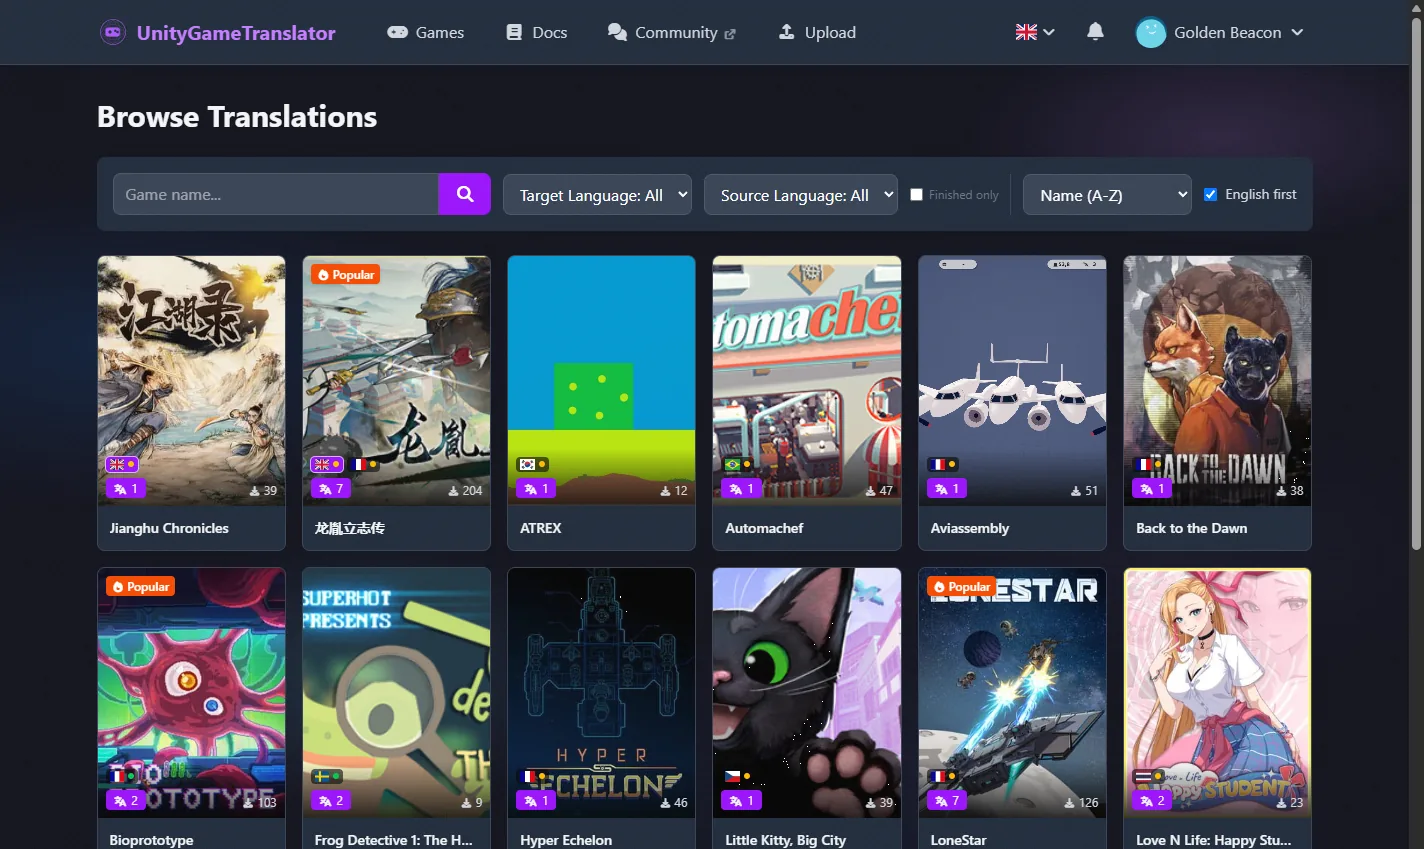
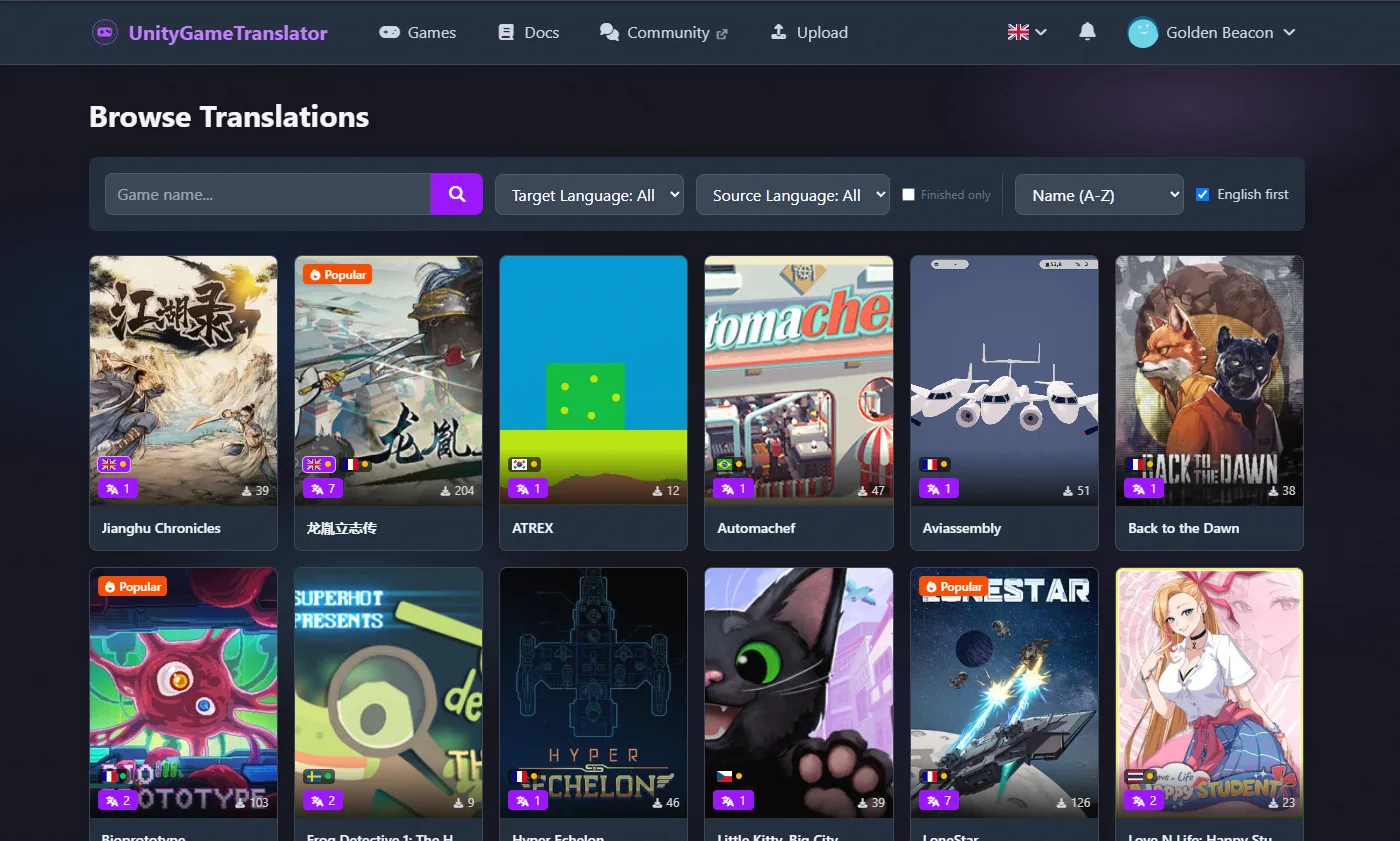
Redo the screenshots: clean captures, placed like the existing ones
Four of the five carried Chrome's "started debugging this browser" bar, frozen
into the image by a capture offset that was correct the day before. A check meant
to catch it looked for a LIGHT banner; in dark mode it is dark, and it passed.
The captures now trim what the browser adds - that bar and the orange frame Chrome
draws around a driven page - and refuse anything that survives the trim.

They were also placed after each section's panel rather than inside it, so they
floated on the page background at full width, with no frame and nothing saying
why they were there. They now follow the pattern the other figures already used:
inside the panel, doc-img for the border and the zoom, and a caption.

diff --git a/resources/views/docs/index.blade.php b/resources/views/docs/index.blade.php
@@ -255,6 +255,18 @@
 
             <div class="bg-gray-800 rounded-lg p-6 border border-gray-700">
                 <p class="text-gray-300 mb-6">{{ __('docs.whatis.pitch') }}</p>
+                <figure class="mb-6 w-full flex flex-col items-center justify-center">
+                    <picture>
+                        <source srcset="{{ asset('images/screenshots/WebBrowse.webp') }}" type="image/webp">
+                        <img src="{{ asset('images/screenshots/WebBrowse.png') }}"
+                             alt="{{ __('docs.shot.browse_alt') }}"
+                             class="doc-img doc-img-web block mx-auto"
+                             width="1400" height="841"
+                             loading="lazy"
+                             data-zoomable>
+                    </picture>
+                    <figcaption class="text-sm text-gray-400 mt-2 text-center">{{ __('docs.shot.browse_caption') }}</figcaption>
+                </figure>
 
                 <div class="grid md:grid-cols-2 gap-4 mb-6">
                     <div class="bg-gray-700 rounded-lg p-4">
@@ -314,17 +326,6 @@
                 </div>
             </div>
         
-                <figure class="mb-6 w-full flex flex-col items-center justify-center">
-                    <picture>
-                        <source srcset="{{ asset('images/screenshots/WebBrowse.webp') }}" type="image/webp">
-                        <img src="{{ asset('images/screenshots/WebBrowse.png') }}"
-                             alt="{{ __('docs.shot.browse_alt') }}"
-                             class="doc-img doc-img-web block mx-auto"
-                             width="1424" height="849"
-                             loading="lazy"
-                             data-zoomable>
-                    </picture>
-                </figure>
             </section>
 
         <!-- Quick Start -->
@@ -335,6 +336,18 @@
 
             <div class="bg-gray-800 rounded-lg p-6 border border-gray-700">
                 <p class="text-gray-300 mb-6">{{ __('docs.quick_start.intro') }}</p>
+                <figure class="mb-6 w-full flex flex-col items-center justify-center">
+                    <picture>
+                        <source srcset="{{ asset('images/screenshots/WebGamePage.webp') }}" type="image/webp">
+                        <img src="{{ asset('images/screenshots/WebGamePage.png') }}"
+                             alt="{{ __('docs.shot.game_alt') }}"
+                             class="doc-img doc-img-web block mx-auto"
+                             width="1390" height="840"
+                             loading="lazy"
+                             data-zoomable>
+                    </picture>
+                    <figcaption class="text-sm text-gray-400 mt-2 text-center">{{ __('docs.shot.game_caption') }}</figcaption>
+                </figure>
 
                 {{-- Each step goes where it is explained.
 
@@ -398,17 +411,6 @@
                 </div>
             </div>
         
-                <figure class="mb-6 w-full flex flex-col items-center justify-center">
-                    <picture>
-                        <source srcset="{{ asset('images/screenshots/WebGamePage.webp') }}" type="image/webp">
-                        <img src="{{ asset('images/screenshots/WebGamePage.png') }}"
-                             alt="{{ __('docs.shot.game_alt') }}"
-                             class="doc-img doc-img-web block mx-auto"
-                             width="1424" height="849"
-                             loading="lazy"
-                             data-zoomable>
-                    </picture>
-                </figure>
             </section>
 
         <!-- Installation -->
@@ -828,6 +830,18 @@
                     <li>{{ __('docs.collaboration.workflow2') }}</li>
                     <li>{{ __('docs.collaboration.workflow3') }}</li>
                     <li>{{ __('docs.collaboration.workflow4') }}</li>
+                <figure class="mb-6 w-full flex flex-col items-center justify-center">
+                    <picture>
+                        <source srcset="{{ asset('images/screenshots/WebMerge.webp') }}" type="image/webp">
+                        <img src="{{ asset('images/screenshots/WebMerge.png') }}"
+                             alt="{{ __('docs.shot.merge_alt') }}"
+                             class="doc-img doc-img-web block mx-auto"
+                             width="1389" height="841"
+                             loading="lazy"
+                             data-zoomable>
+                    </picture>
+                    <figcaption class="text-sm text-gray-400 mt-2 text-center">{{ __('docs.shot.merge_caption') }}</figcaption>
+                </figure>
                 </ol>
             </div>
 
@@ -837,6 +851,18 @@
                     <i class="fas fa-upload text-green-400 mr-2"></i>{{ __('docs.collaboration.upload_title') }}
                 </h3>
                 <p class="text-gray-300 mb-4">{{ __('docs.collaboration.upload_intro') }}</p>
+                <figure class="mb-6 w-full flex flex-col items-center justify-center">
+                    <picture>
+                        <source srcset="{{ asset('images/screenshots/WebUpload.webp') }}" type="image/webp">
+                        <img src="{{ asset('images/screenshots/WebUpload.png') }}"
+                             alt="{{ __('docs.shot.upload_alt') }}"
+                             class="doc-img doc-img-web block mx-auto"
+                             width="1400" height="841"
+                             loading="lazy"
+                             data-zoomable>
+                    </picture>
+                    <figcaption class="text-sm text-gray-400 mt-2 text-center">{{ __('docs.shot.upload_caption') }}</figcaption>
+                </figure>
 
                 <div class="grid md:grid-cols-2 gap-4">
                     <div>
@@ -881,29 +907,7 @@
                 <p class="text-gray-300">{{ __('docs.collaboration.merge_rules') }}</p>
             </div>
         
-                <figure class="mb-6 w-full flex flex-col items-center justify-center">
-                    <picture>
-                        <source srcset="{{ asset('images/screenshots/WebUpload.webp') }}" type="image/webp">
-                        <img src="{{ asset('images/screenshots/WebUpload.png') }}"
-                             alt="{{ __('docs.shot.upload_alt') }}"
-                             class="doc-img doc-img-web block mx-auto"
-                             width="1424" height="849"
-                             loading="lazy"
-                             data-zoomable>
-                    </picture>
-                </figure>
             
-                <figure class="mb-6 w-full flex flex-col items-center justify-center">
-                    <picture>
-                        <source srcset="{{ asset('images/screenshots/WebMerge.webp') }}" type="image/webp">
-                        <img src="{{ asset('images/screenshots/WebMerge.png') }}"
-                             alt="{{ __('docs.shot.merge_alt') }}"
-                             class="doc-img doc-img-web block mx-auto"
-                             width="1424" height="849"
-                             loading="lazy"
-                             data-zoomable>
-                    </picture>
-                </figure>
             </section>
 
         <!-- Sync -->
@@ -1015,6 +1019,18 @@
 
             <div class="bg-gray-800 rounded-lg p-6 border border-gray-700">
                 <p class="text-gray-300 mb-2">{{ __('docs.quality_system.intro') }}</p>
+                <figure class="mb-6 w-full flex flex-col items-center justify-center">
+                    <picture>
+                        <source srcset="{{ asset('images/screenshots/WebMyTranslations.webp') }}" type="image/webp">
+                        <img src="{{ asset('images/screenshots/WebMyTranslations.png') }}"
+                             alt="{{ __('docs.shot.mine_alt') }}"
+                             class="doc-img doc-img-web block mx-auto"
+                             width="1400" height="841"
+                             loading="lazy"
+                             data-zoomable>
+                    </picture>
+                    <figcaption class="text-sm text-gray-400 mt-2 text-center">{{ __('docs.shot.mine_caption') }}</figcaption>
+                </figure>
                 {{-- The tags and the formulas that read them were two sections apart with nothing
                      connecting them, though neither means much without the other. --}}
                 <p class="text-sm mb-6">
@@ -1059,17 +1075,6 @@
                 </div>
             </div>
         
-                <figure class="mb-6 w-full flex flex-col items-center justify-center">
-                    <picture>
-                        <source srcset="{{ asset('images/screenshots/WebMyTranslations.webp') }}" type="image/webp">
-                        <img src="{{ asset('images/screenshots/WebMyTranslations.png') }}"
-                             alt="{{ __('docs.shot.mine_alt') }}"
-                             class="doc-img doc-img-web block mx-auto"
-                             width="1424" height="849"
-                             loading="lazy"
-                             data-zoomable>
-                    </picture>
-                </figure>
             </section>
 
         <!-- How the numbers are computed. Published in full on purpose: every figure shown on
